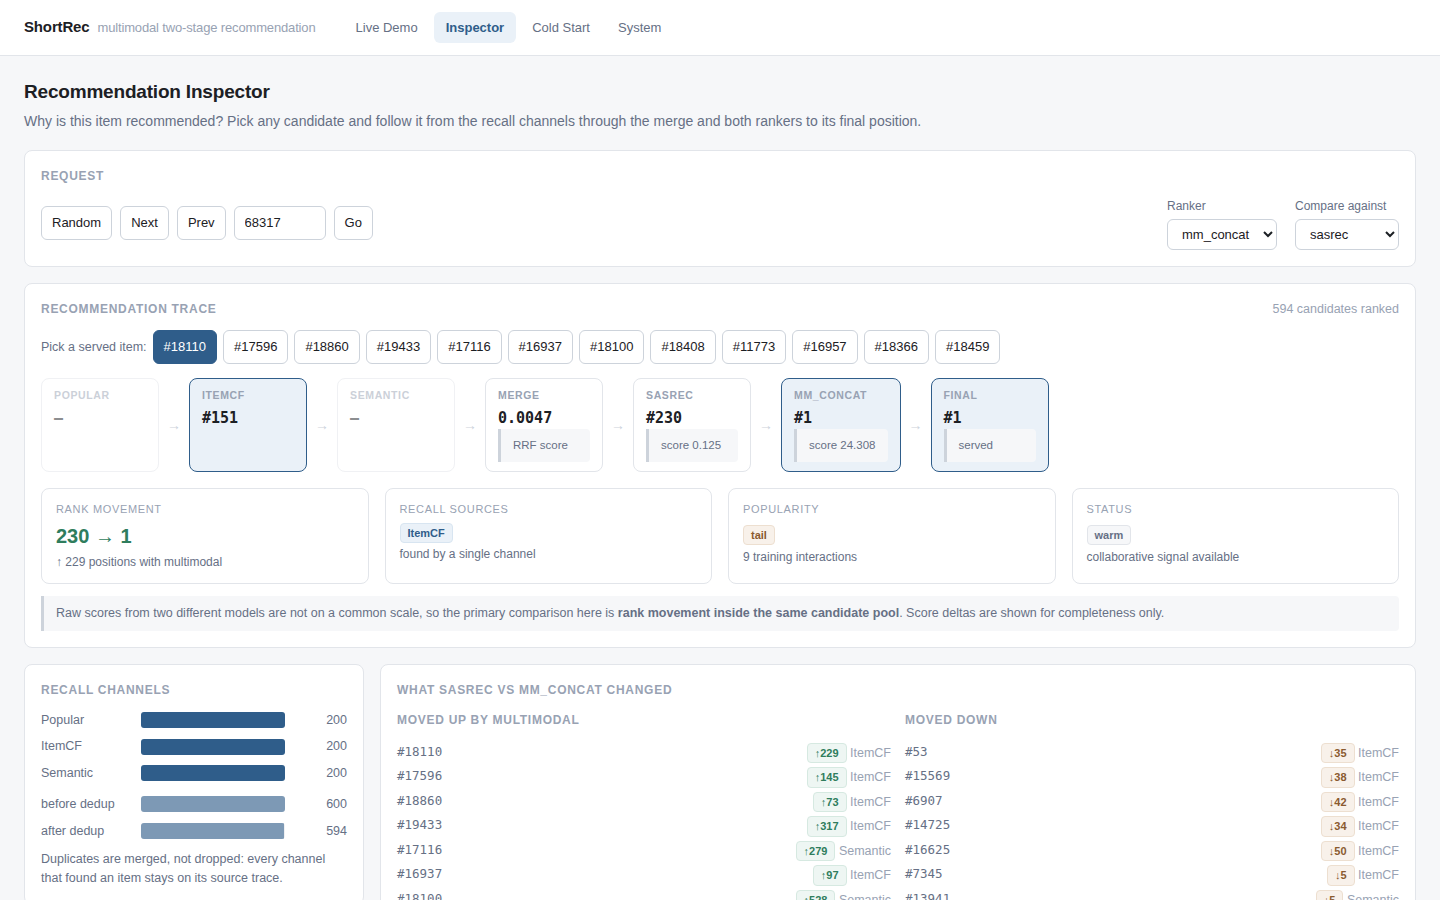
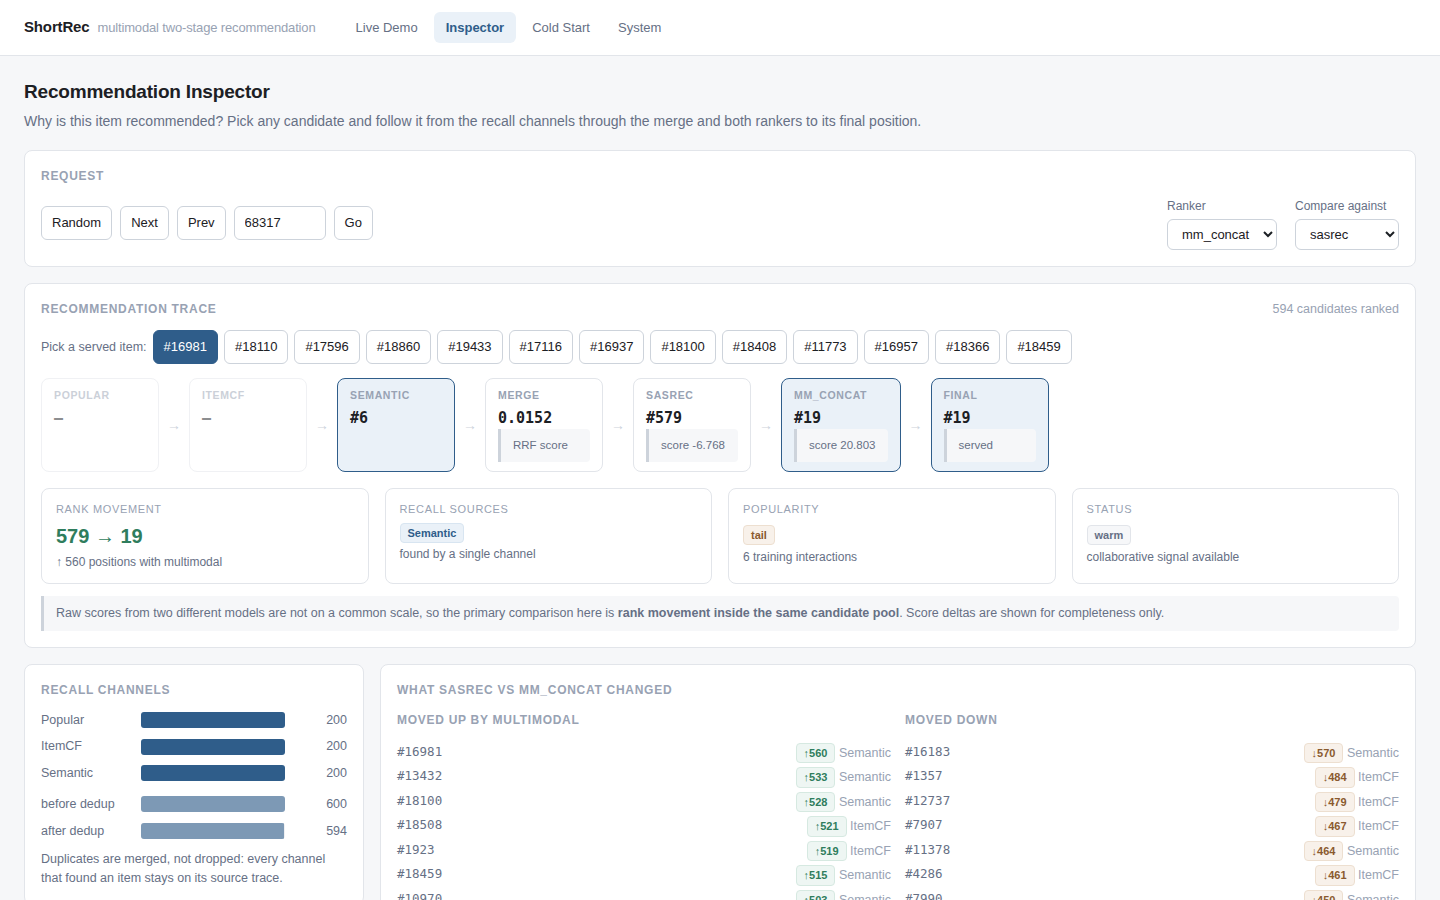
Lead the movement lists with the biggest movers and make them clickable
- inspect(): moved_up / moved_down are now sorted by position delta, so the
  "what multimodal changed" panel leads with the items it changed most. The UI
  only shows the first few, and the previous ordering was by ranking score, so
  the most interesting cases could be hidden.
- The movement rows on the Inspector are clickable and load that item's trace.
  The demo capture relies on this to show the strongest case rather than
  whichever item happened to be served first.
- The served-item button row now includes the selected item even when it is not
  in the top-12, so the highlighted button always matches the trace below it.
- Refreshed the demo user artifact and the captured assets: user 68317 now shows
  item #16981, recalled only by the semantic channel, ranked #579 by the ID-only
  model and #19 by MM-SASRec (up 560 positions).

diff --git a/frontend/src/pages/Inspector.tsx b/frontend/src/pages/Inspector.tsx
@@ -141,15 +141,21 @@ export default function Inspector() {
           >
             <div className="row" style={{ gap: 6, marginBottom: 14 }}>
               <span className="small muted">Pick a served item:</span>
-              {data.final_top_k.slice(0, 12).map((e) => (
-                <button
-                  key={e.item_id}
-                  className={selected === e.item_id ? "primary" : ""}
-                  onClick={() => setSelected(e.item_id)}
-                >
-                  #{e.item_id}
-                </button>
-              ))}
+              {(() => {
+                // the served items, plus whatever is selected (which may be a
+                // candidate that moved but did not make the final top-K)
+                const ids = data.final_top_k.slice(0, 12).map((e) => e.item_id);
+                if (selected !== null && !ids.includes(selected)) ids.unshift(selected);
+                return ids.map((id) => (
+                  <button
+                    key={id}
+                    className={selected === id ? "primary" : ""}
+                    onClick={() => setSelected(id)}
+                  >
+                    #{id}
+                  </button>
+                ));
+              })()}
             </div>
 
             {picked && (
@@ -304,7 +310,10 @@ export default function Inspector() {
                     <div className="panel-title">Moved up by multimodal</div>
                     {data.moved_up_by_multimodal.length === 0 && <div className="muted small">none</div>}
                     {data.moved_up_by_multimodal.map((e) => (
-                      <div className="kv" key={e.item_id}>
+                      <div className="kv" key={e.item_id}
+                           onClick={() => setSelected(e.item_id)}
+                           style={{ cursor: "pointer" }}
+                           title="show this item's trace">
                         <span className="k mono">#{e.item_id}</span>
                         <span className="v">
                           <Badge kind="cold">↑{e.position_delta}</Badge>{" "}
@@ -317,7 +326,10 @@ export default function Inspector() {
                     <div className="panel-title">Moved down</div>
                     {data.moved_down_by_multimodal.length === 0 && <div className="muted small">none</div>}
                     {data.moved_down_by_multimodal.map((e) => (
-                      <div className="kv" key={e.item_id}>
+                      <div className="kv" key={e.item_id}
+                           onClick={() => setSelected(e.item_id)}
+                           style={{ cursor: "pointer" }}
+                           title="show this item's trace">
                         <span className="k mono">#{e.item_id}</span>
                         <span className="v">
                           <Badge kind="tail">↓{e.position_delta}</Badge>{" "}

diff --git a/src/pipeline/recommender.py b/src/pipeline/recommender.py
@@ -300,6 +300,10 @@ class TwoStageRecommender:
                     moved_up.append({**e, "position_delta": delta})
                 elif delta <= -5:
                     moved_down.append({**e, "position_delta": -delta})
+            # lead with the biggest movers: that is the interesting part of the
+            # comparison, and the UI only shows the first few
+            moved_up.sort(key=lambda e: -e["position_delta"])
+            moved_down.sort(key=lambda e: -e["position_delta"])
 
         rr = rerank(entries, RerankConfig(exploration=cold_exploration),
                     final_k=20, history=set(hist))
